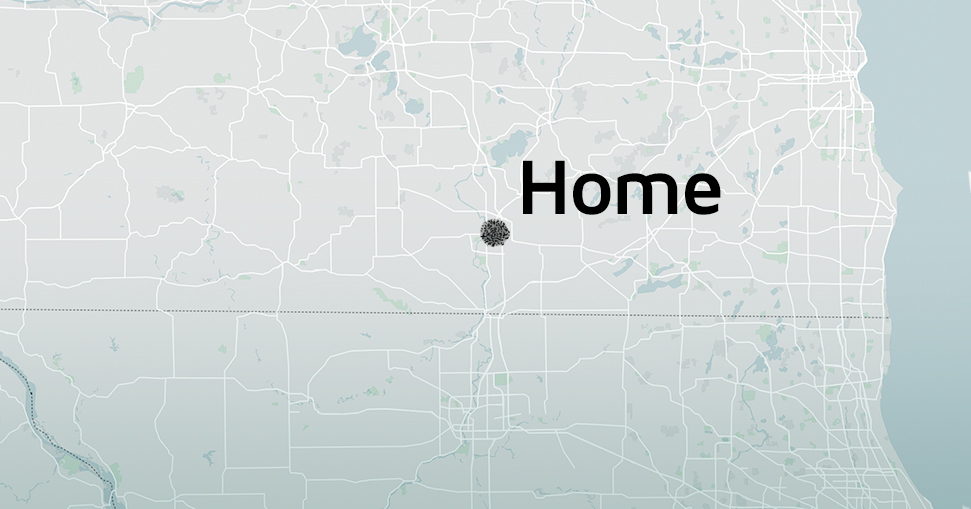
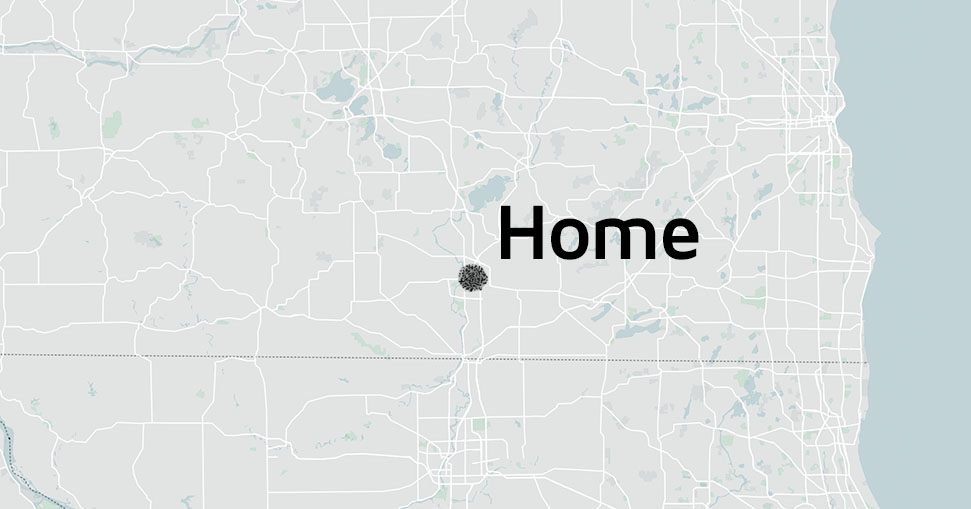
minimize image

diff --git a/app/_posts/0000-22-10-maps-of-home.md b/app/_posts/0000-22-10-maps-of-home.md
@@ -288,7 +288,7 @@ Traces linger of a kid trotting off to school.
 
       map.addSource('overlay', {
         'type': 'image',
-        'url': '{{site.baseurl}}/assets/graphics/posts/13-home/home.png',
+        'url': '{{site.baseurl}}/assets/graphics/posts/13-home/home-2.png',
         'coordinates': [
             [-89.05998229980469,42.715488939866084],
             [-88.97415161132812,42.715488939866084],
